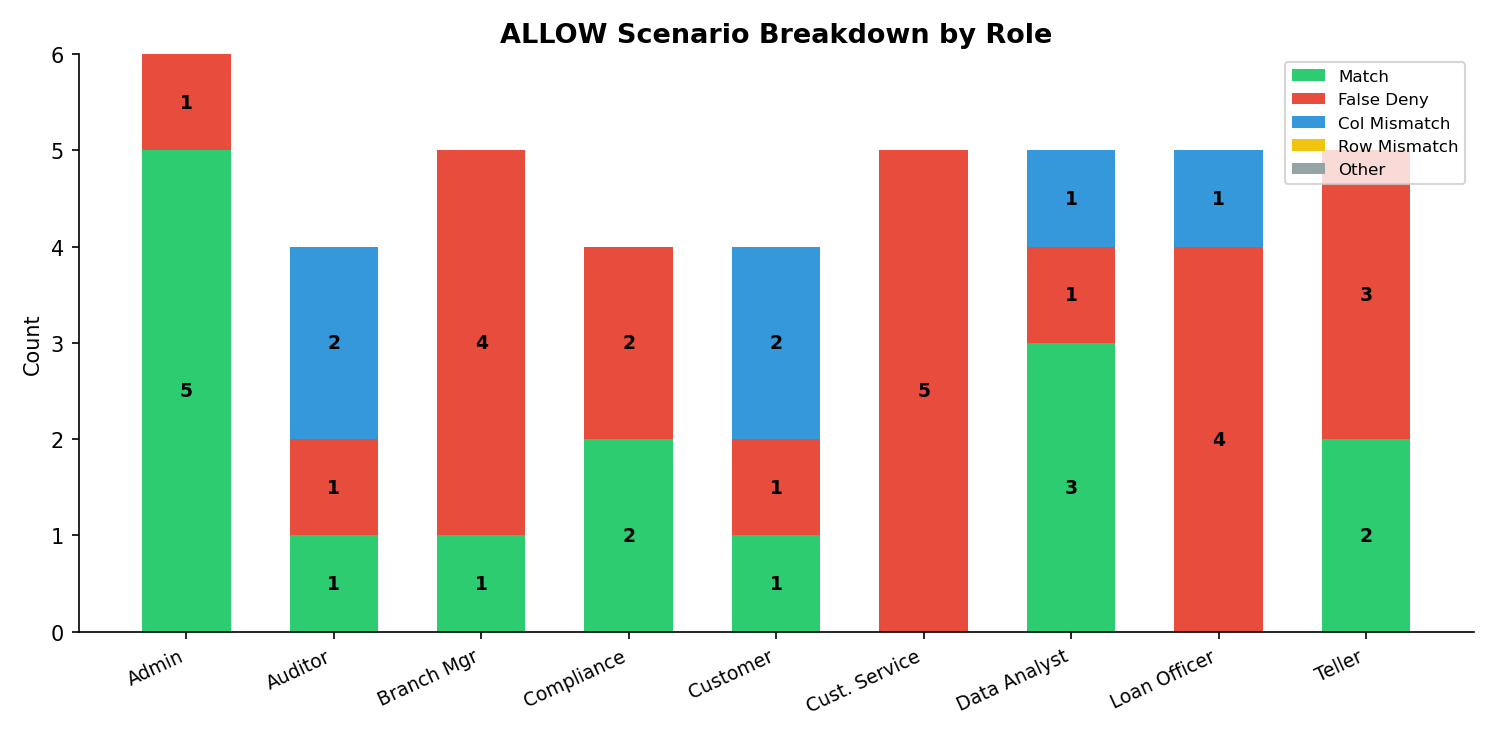
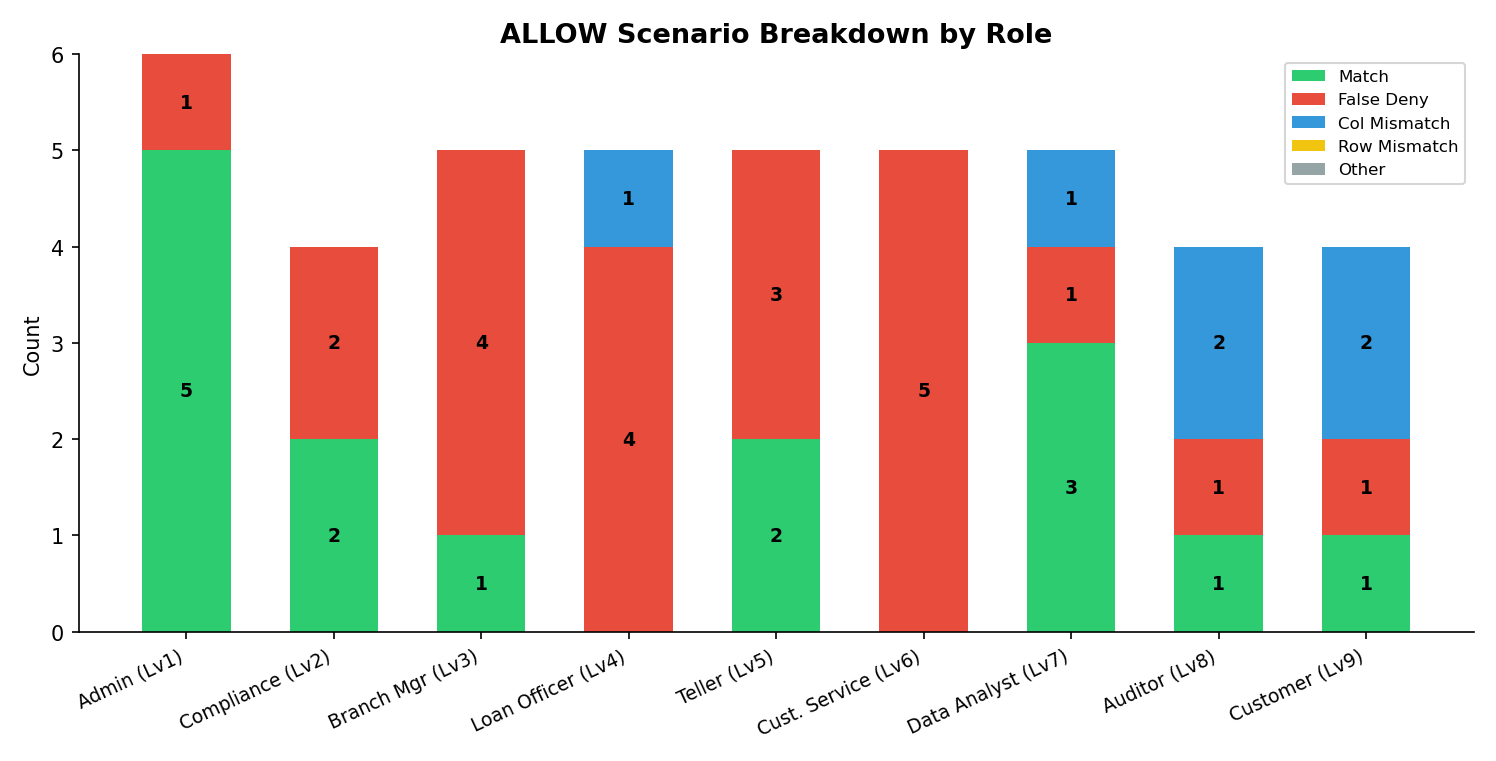
Fix experiment report -- financial v1

diff --git a/report/generate_report_charts.py b/report/generate_report_charts.py
@@ -23,12 +23,12 @@ plt.rcParams.update({
 })
 
 ROLE_ORDER = [
-    "admin", "auditor", "branch_manager", "compliance",
-    "customer", "customer_service", "data_analyst", "loan_officer", "teller",
+    "admin", "compliance", "branch_manager", "loan_officer",
+    "teller", "customer_service", "data_analyst", "auditor", "customer",
 ]
 ROLE_LABELS = [
-    "Admin", "Auditor", "Branch Mgr", "Compliance",
-    "Customer", "Cust. Service", "Data Analyst", "Loan Officer", "Teller",
+    "Admin (Lv1)", "Compliance (Lv2)", "Branch Mgr (Lv3)", "Loan Officer (Lv4)",
+    "Teller (Lv5)", "Cust. Service (Lv6)", "Data Analyst (Lv7)", "Auditor (Lv8)", "Customer (Lv9)",
 ]
 
 

diff --git a/report/report_financial_v1.md b/report/report_financial_v1.md
@@ -26,17 +26,17 @@
 
 ![역할별 정확도](figures/role_accuracy.png)
 
-| 역할 | 총 건수 | ALLOW / DENY | Status 일치 | 최종 Match | Match율 |
-|---|---|---|---|---|---|
-| Admin | 6 | 6 / 0 | 5 | 5 | **83.3%** |
-| Auditor | 7 | 4 / 3 | 5 | 4 | 57.1% |
-| Branch Manager | 8 | 5 / 3 | 5 | 4 | 50.0% |
-| Compliance | 7 | 4 / 3 | 5 | 5 | 71.4% |
-| Customer | 11 | 4 / 7 | 10 | 9 | **81.8%** |
-| Customer Service | 8 | 5 / 3 | 3 | 3 | **37.5%** |
-| Data Analyst | 8 | 5 / 3 | 7 | 6 | 75.0% |
-| Loan Officer | 8 | 5 / 3 | 4 | 3 | **37.5%** |
-| Teller | 8 | 5 / 3 | 5 | 4 | 50.0% |
+| 역할 | Lv | 총 건수 | ALLOW / DENY | Status 일치 | 최종 Match | Match율 |
+|---|---|---|---|---|---|---|
+| Admin | 1 | 6 | 6 / 0 | 5 | 5 | **83.3%** |
+| Compliance Officer | 2 | 7 | 4 / 3 | 5 | 5 | 71.4% |
+| Branch Manager | 3 | 8 | 5 / 3 | 5 | 4 | 50.0% |
+| Loan Officer | 4 | 8 | 5 / 3 | 4 | 3 | **37.5%** |
+| Teller | 5 | 8 | 5 / 3 | 5 | 4 | 50.0% |
+| Customer Service | 6 | 8 | 5 / 3 | 3 | 3 | **37.5%** |
+| Data Analyst | 7 | 8 | 5 / 3 | 7 | 6 | 75.0% |
+| Auditor | 8 | 7 | 4 / 3 | 5 | 4 | 57.1% |
+| Customer | 9 | 11 | 4 / 7 | 10 | 9 | **81.8%** |
 
 **분석**:
 - **Customer**(81.8%)와 **Admin**(83.3%)은 높은 정확도를 보이며, 이는 역할의 권한 범위가 단순하고 명확하기 때문으로 추정된다.
